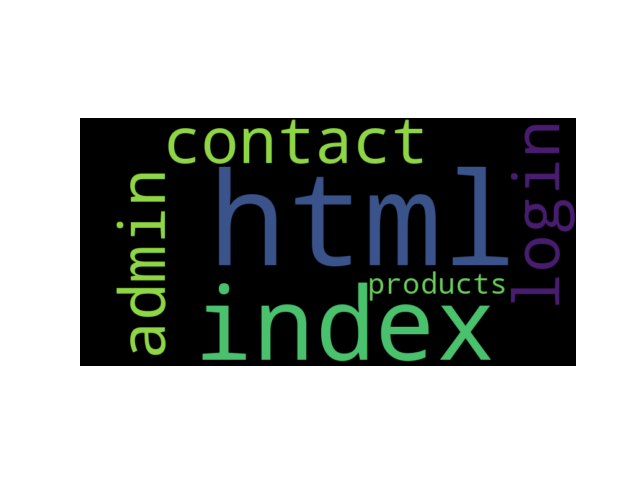
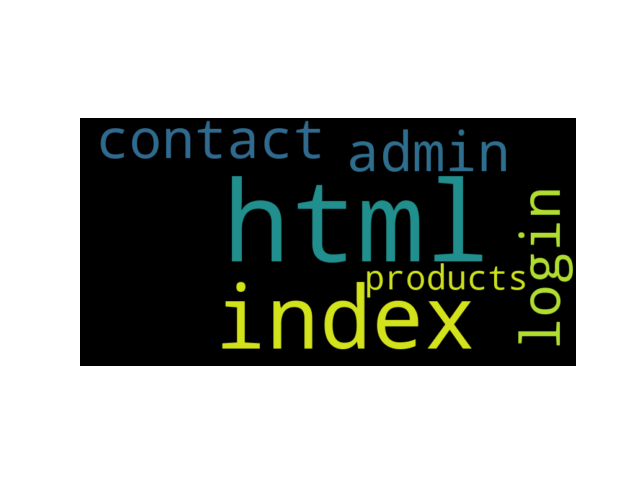
readme

Changed region(s): [[0.1562, 0.25, 0.9062, 0.75]]

diff --git a/8.Project/300150416/README.md b/8.Project/300150416/README.md
@@ -1,0 +1,161 @@
+cat << 'EOF' > README.md
+# 📊 Analyseur de Logs — Bash & Python
+
+---
+
+## 👤 Informations
+
+| Champ | Valeur |
+|------|--------|
+| Identifiant | 300150416 |
+| Nom | Hachem Souyadi |
+| Cours | INF1102 – Programmation système |
+| Type | Projet DevOps / Automatisation |
+| Sujet | Analyse de logs serveur |
+
+---
+
+## 🎯 Objectif du projet
+
+Ce projet permet d'automatiser l'analyse d’un fichier de logs serveur en utilisant :
+
+- Python → traitement et analyse des données  
+- Bash → automatisation et orchestration  
+
+Le système génère automatiquement :
+- un rapport texte
+- des graphiques
+- un histogramme
+- un nuage de mots (WordCloud)
+
+---
+
+## 🧠 Architecture
+
+\`\`\`text
+Utilisateur
+   ↓
+Script Bash (analyse.sh)
+   ↓
+Script Python (analyse.py)
+   ↓
+Analyse des logs
+   ↓
+Génération des résultats (output/)
+\`\`\`
+
+---
+
+## 📁 Structure du projet
+
+\`\`\`text
+300150416/
+├── scripts/
+│   ├── analyse.py
+│   ├── analyse.sh
+│   └── requirements.txt
+│
+├── data/
+│   └── sample.log
+│
+├── output/
+│   ├── rapport.txt
+│   ├── top_ip.png
+│   ├── top_urls.png
+│   ├── http_codes.png
+│   ├── histogram.png
+│   └── wordcloud.png
+│
+├── images/
+├── RAPPORT.ipynb
+└── README.md
+\`\`\`
+
+---
+
+## ⚙ Technologies utilisées
+
+| Technologie | Rôle |
+|------------|------|
+| Python 3 | Analyse des données |
+| Bash | Automatisation |
+| Matplotlib | Graphiques |
+| WordCloud | Nuage de mots |
+| Jupyter | Notebook |
+| Git / GitHub | Versioning |
+
+---
+
+## 🚀 Lancement du projet
+
+\`\`\`bash
+cd 300150416
+bash scripts/analyse.sh
+\`\`\`
+
+---
+
+## 🔍 Fonctionnement
+
+\`\`\`bash
+python3 scripts/analyse.py
+\`\`\`
+
+---
+
+## 📊 Résultats générés
+
+| Fichier | Description |
+|--------|------------|
+| rapport.txt | Résumé de l’analyse |
+| top_ip.png | Top IP |
+| top_urls.png | URLs |
+| http_codes.png | Codes HTTP |
+| histogram.png | Histogramme |
+| wordcloud.png | WordCloud |
+
+---
+
+## 📌 Exemple de sortie
+
+\`\`\`text
+=== RAPPORT D'ANALYSE DES LOGS ===
+Top 3 des IP...
+\`\`\`
+
+---
+
+## 📦 Dépendances
+
+\`\`\`bash
+pip3 install matplotlib wordcloud jupyter
+\`\`\`
+
+---
+
+## 📸 Captures
+
+Voir dossier :
+
+\`\`\`text
+images/
+\`\`\`
+
+---
+
+## ✅ Fonctionnalités
+
+| Fonctionnalité | Statut |
+|--------------|--------|
+| Analyse logs | ✅ |
+| Graphiques | ✅ |
+| Histogramme | ✅ |
+| WordCloud | ✅ |
+| Script Bash | ✅ |
+
+---
+
+## 👨💻 Auteur
+
+Hachem Souyadi — Collège Boréal
+EOF
